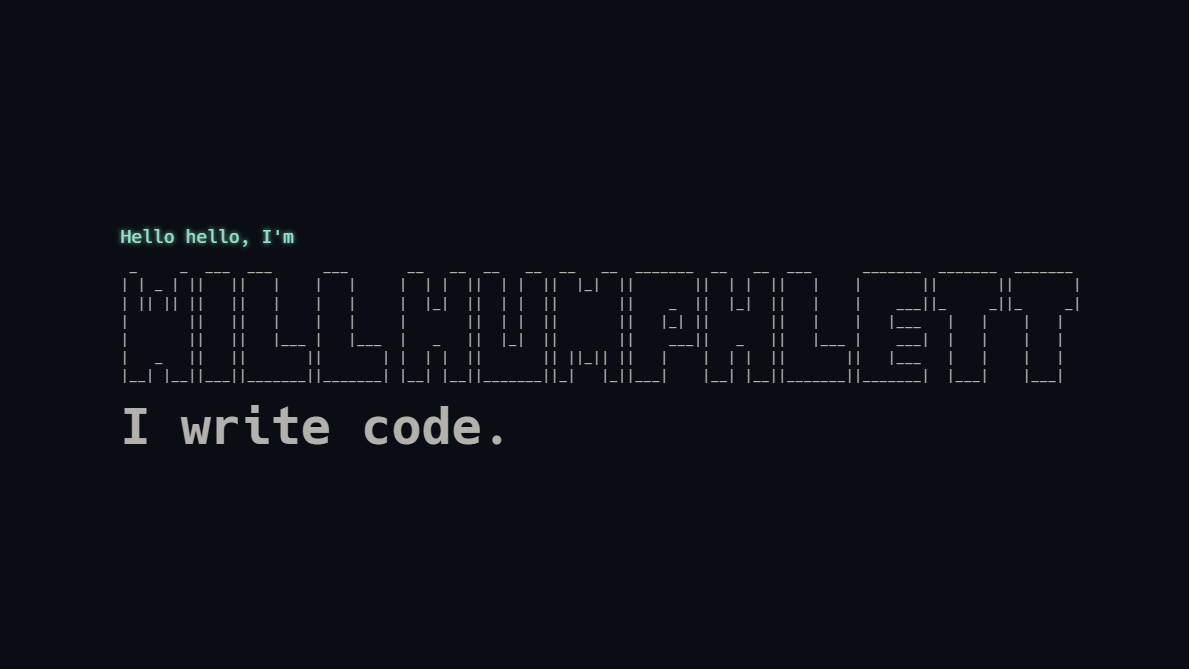
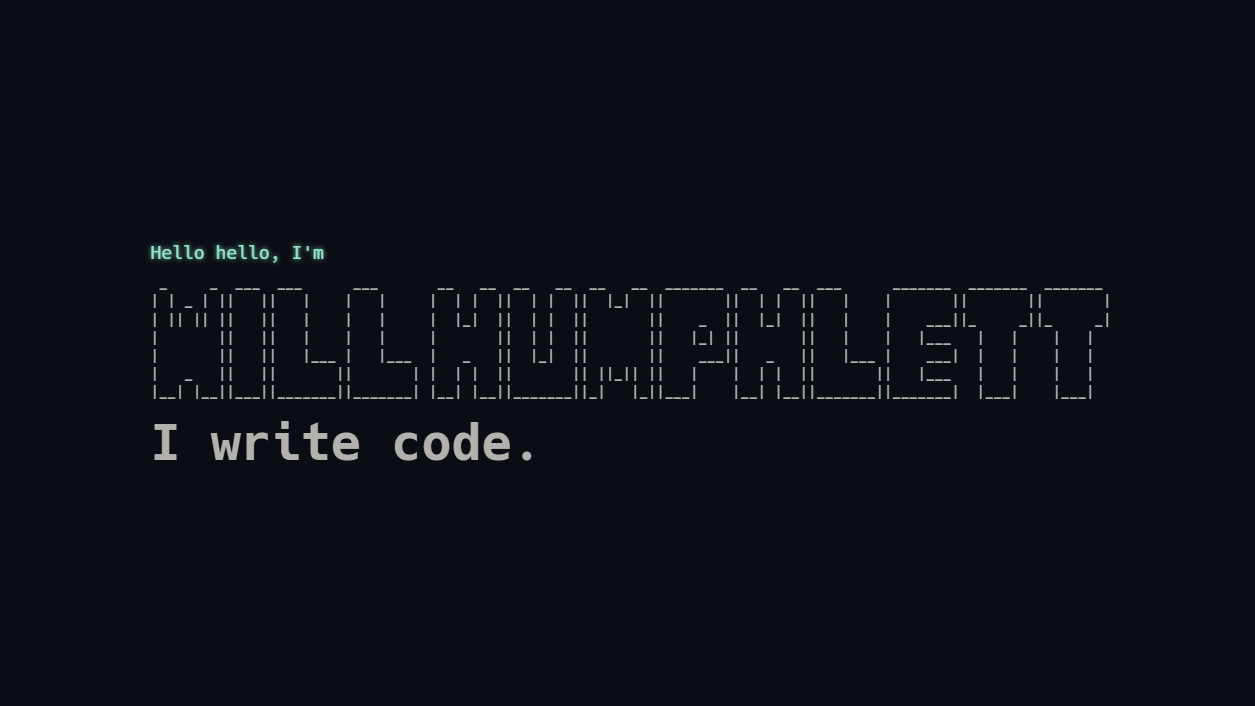
Adjust ascii weighting

Changed region(s): [[0.3112, 0.3886, 0.9024, 0.568], [0.0934, 0.3288, 0.3112, 0.568], [0.0934, 0.5979, 0.4357, 0.6876]]

diff --git a/src/styles/fonts.js b/src/styles/fonts.js
@@ -32,15 +32,15 @@ const createFontFaces = (family, style = 'normal') => {
   for (const [weight, formats] of Object.entries(family[style])) {
     const woff = formats[0];
     const woff2 = formats[1];
-    styles += `
-            @font-face {
-                font-family: '${family.name}';
-                src: url(${woff2}) format('woff2'), url(${woff}) format('woff');
-                font-weight: ${weight};
-                font-style: ${style};
-                font-display: auto;
-            }
-        `;
+styles += `
+    @font-face {
+        font-family: '${family.name}';
+        src: url(${woff2}) format('woff2'), url(${woff}) format('woff');
+        font-weight: ${weight};
+        font-style: ${style};
+        font-display: auto;
+    }
+  `;
   }
 
   return styles;

diff --git a/src/styles/GlobalStyle.js b/src/styles/GlobalStyle.js
@@ -110,6 +110,7 @@ const GlobalStyle = createGlobalStyle`
   .ascii {
     font-size: clamp(6px, 1vw, var(--fz-sm));
     white-space: pre;
+    font-weight: 900;
   }
   .big-heading {
     margin: 0;
